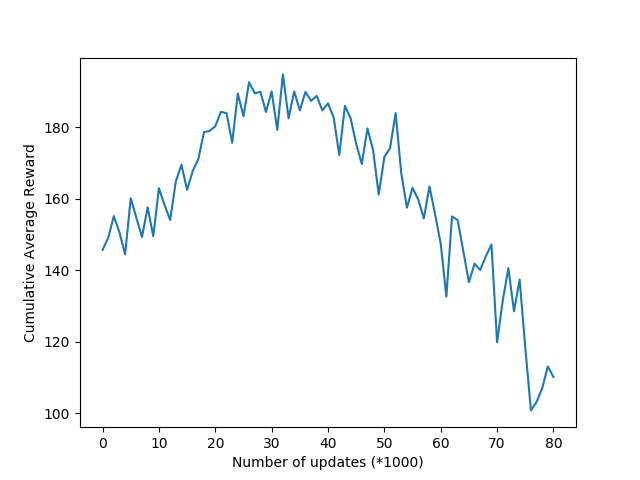
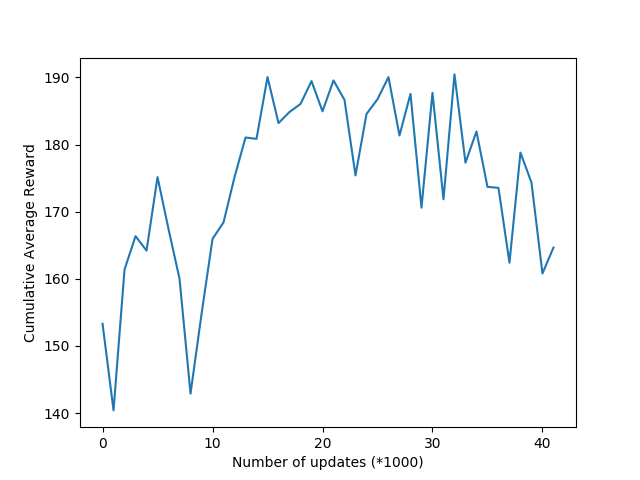
run new set of models

diff --git a/main.tex b/main.tex
@@ -322,7 +322,7 @@ At convergence, $Q_w^{t+1}(s, a)$ should be equal to $Q_w^{t}(s, a)$ which impli
 
 \subsection{Linear Q-Network without Experience Replay}
 \subsection*{CartPole-v0}
-\paragraph{Experiment Setting} There were only four weights in the network one corresponding to each variable in the state and a bias. To learn these weights, we used Adam Optimizer with initial learning rate 0.0001 to optimize the loss. During training, we use an epsilon greedy policy and decay the value of $\epsilon$ from 0.9 to 0.05 linearly over 1 million weight updates. The model was trained for 500 episodes. Figure \ref{fig:01} shows the performance of the model after different number of weight updates to model during training.
+\paragraph{Experiment Setting} There were only four weights in the network one corresponding to each variable in the state and a bias. To learn these weights, we used Adam Optimizer with initial learning rate 0.0001 to optimize the loss. During training, we use an epsilon greedy policy and decay the value of $\epsilon$ from 0.5 to 0.05 linearly over 1 million weight updates. The model was trained for 500 episodes. Figure \ref{fig:01} shows the performance of the model after different number of weight updates to model during training.
 \begin{figure}[h]
   \centering
   \vspace{-5mm}
@@ -330,7 +330,7 @@ At convergence, $Q_w^{t+1}(s, a)$ should be equal to $Q_w^{t}(s, a)$ which impli
   \caption{Performance of Linear Q-Network on CartPole}
   \label{fig:01}
 \end{figure}
-\paragraph{Observations} We found that the linear network is not able to solve CartPole environment with confidence. It is heavily dependent on initialization and with a bad initialization gets easily stuck in a local optima. Even when initialization is good, it is unable to give a consistent average reward of 200 and the performance oscillates a lot. Additionally, the model also unlearns the policy and the reward goes below 100 after training for some more time. We hypothesize that this might be due to the physics of the environment. The Q function with respect to velocity is symmetric and it is not possible for a linear model to trace a symmetric function. The rendering of the model learnt shows that even when reward is high, the pole is very unstable and the cart keeps moving back and forth a lot.
+\paragraph{Observations} We found that the linear network is not able to solve CartPole environment with confidence. It is heavily dependent on initialization and with a bad initialization gets easily stuck in a local optima. Even when initialization is good, it is unable to give a consistent average reward of 200 and the performance oscillates a lot. Additionally, the model also unlearns the policy and the reward goes below 100 after training for some more time. We hypothesize that this might be due to the physics of the environment. The Q function with respect to velocity is symmetric and it is not possible for a linear model to trace a symmetric function. The rendering of the model learned shows that even when reward is high, the pole is very unstable and the cart keeps moving to one direction.
 
 
 \pagebreak[4]
@@ -341,7 +341,7 @@ At convergence, $Q_w^{t+1}(s, a)$ should be equal to $Q_w^{t}(s, a)$ which impli
 \subsection{Linear Q-Network with Experience Replay}
 \subsection*{CartPole-v0}
 
-\paragraph{Experiment Setting} Similar to the setting without experience replay, we used Adam Optimizer with initial learning rate 0.0001. Again, we use an epsilon greedy policy and decay the value of $\epsilon$ from 0.9 to 0.05 linearly over 1 million weight updates. We use a batch size of 32 for experience sampling and train the model for 500 episodes. Figure \ref{fig:02} shows the performance of the model after different number of weight updates to model during training.
+\paragraph{Experiment Setting} Similar to the setting without experience replay, we used Adam Optimizer with initial learning rate 0.0001. Again, we use an epsilon greedy policy and decay the value of $\epsilon$ from 0.5 to 0.05 linearly over 1 million weight updates. We use a batch size of 32 for experience sampling and train the model for 500 episodes. Figure \ref{fig:02} shows the performance of the model after different number of weight updates to model during training.
 \begin{figure}[h]
   \centering
   \vspace{-5mm}
@@ -349,7 +349,7 @@ At convergence, $Q_w^{t+1}(s, a)$ should be equal to $Q_w^{t}(s, a)$ which impli
   \caption{Performance of Linear Q-Network on CartPole with Experience Sampling}
   \label{fig:02}
 \end{figure}
-\paragraph{Observations} Experience replay does help the model and the model performs better than that without replay. The number of episodes required for training is reduced because of replay. It is now less dependent on initialization and given sufficient training time is able to learn even with a bad initialization. However, this model also unlearns the policy and the reward diminishes after training for some more time. To avoid this from happening, we use an early stopping criteria where we stop training if we get a average reward of more than 195 for 5 continuous evaluations. The rendering of the learned policy shows that the pole is still oscillating a lot hinting that although the reward is 200, the policy learned is still not what it ideally should be.
+\paragraph{Observations} Experience replay does help the model and the model performs better than that without replay in a sense that the learned policy is able to reach a reward of 200. The number of episodes required for training is also reduced because of replay. However the model is still dependent on initialization and is able to reach only upto 100 reward for bad initializations. This model also unlearns the policy and the reward diminishes after training for some more time. To avoid this from happening, we use an early stopping criteria where we stop training if we get a average reward of more than 195 for 5 continuous evaluations. The rendering of the learned policy shows that the cart moves back and forth rapidly and pole is still oscillating a lot hinting that although the reward is 200, the policy learned is still not what it ideally should be.
 
 \pagebreak[4]
 \subsection*{MountainCar-v0}
@@ -357,7 +357,7 @@ At convergence, $Q_w^{t+1}(s, a)$ should be equal to $Q_w^{t}(s, a)$ which impli
 \pagebreak[4]
 \subsection{Deep Q-Network}
 \subsection*{CartPole-v0}
-\paragraph{Setting} Since, we find out that linear network in not enough to convincingly solve the CartPole environment due to the non-linearity in the physics of the environment, we try a Multi-layer perceptron with 2 hidden layers to solve the problem. We have 16 units in both layers and we use ReLU as activation function for non-linearity. We use adam optimizer with initial learning rate 0.0005. Again, we use an epsilon greedy policy and decay the value of $\epsilon$ from 0.9 to 0.05 linearly over 1 million weight updates. We use a batch size of 32 for experience replay. Figure \ref{fig:03} shows the performance of the model after different number of weight updates to model during training.
+\paragraph{Setting} Since, we find out that linear network in not enough to convincingly solve the CartPole environment due to the non-linearity in the physics of the environment, we try a Multi-layer perceptron with 2 hidden layers to solve the problem. We have 16 units in both layers and we use ReLU as activation function for non-linearity. We use adam optimizer with initial learning rate 0.001. Again, we use an epsilon greedy policy and decay the value of $\epsilon$ from 0.5 to 0.05 linearly over 1 million weight updates. We use a batch size of 32 for experience replay. Figure \ref{fig:03} shows the performance of the model after different number of weight updates to model during training.
 \begin{figure}[h]
   \centering
   \vspace{-5mm}
@@ -365,9 +365,9 @@ At convergence, $Q_w^{t+1}(s, a)$ should be equal to $Q_w^{t}(s, a)$ which impli
   \caption{Performance of Linear Q-Network on CartPole with Experience Sampling}
   \label{fig:03}
 \end{figure}
-\paragraph{Observations} We find that Multi-layer Perceptron is able to fully solve the CartPole environment and able to obtain an average reward of 200 consistently. The average reward obtained is also stable for a long time and does not unlearn quickly as the linear ones do. Learning however takes more time as the number of parameters are more and as a reason, a higher learning rate (0.0005) was used. Again, we use a stopping criteria to prevent the model from overfitting because the risk of overfitting is high due to higher number of parameters as compared to linear model. We stop training when we get a reward of 195 or more for 5 continuous evaluations. Finally, by examining the recording of the learned policy, we find that it is better than linear in the sense that pole does not oscillate and almost maintains its position. However, a caveat in the policy learned is that the cart tends to move in one direction either left or right in order to balance the pole. So while the problem of oscillating pole is solved by MLP, the problem of cart moving rapidly to one direction still remains. 
+\paragraph{Observations} We find that Multi-layer Perceptron is able to fully solve the CartPole environment and able to obtain an average reward of 200 consistently irrespective of initialization. The average reward obtained is also stable for a long time and does not unlearn quickly as the linear ones do. Learning however takes more time as the number of parameters are more and as a reason, a higher learning rate (0.001) was used. Again, we use a stopping criteria to prevent the model from overfitting because the risk of overfitting is high due to higher number of parameters as compared to linear model. We stop training when we get a reward of 195 or more for 5 continuous evaluations. Finally, by examining the recording of the learned policy, we find that it is better than linear in the sense that pole does not oscillate and almost maintains its position. However, a caveat in the policy learned is that the cart tends to move in one direction either left or right in order to balance the pole.
 
-\paragraph{Without Experience Replay} Additionally, we learn an MLP Q Network without experience replay (learning rate = 0.001 and rest of the hyperparameters are same) and find that MLP is able to solve the environment without experience replay and in fact does better in terms of reward stability as compared to linear with experience replay and does not unlearn as fast as linear does. As compared to MLP with experience replay, it take more episodes to converge, The rewards are less stable and its policy is slightly inferior in sense that the pole oscillates a bit. Figure \ref{fig:04} shows the performance of the model after different number of weight updates to model during training.
+\paragraph{Without Experience Replay} Additionally, we learn an MLP Q Network without experience replay and find that MLP is able to solve the environment without experience replay and in fact does better in terms of reward stability as compared to linear with experience replay and does not unlearn as fast as linear does. As compared to MLP with experience replay, it take more episodes to converge, The rewards are less stable and its policy is slightly inferior in sense that the pole oscillates a bit. Figure \ref{fig:04} shows the performance of the model after different number of weight updates to model during training.
 
 \begin{figure}[h]
   \centering
@@ -383,7 +383,7 @@ At convergence, $Q_w^{t+1}(s, a)$ should be equal to $Q_w^{t}(s, a)$ which impli
 \pagebreak[4]
 \subsection{Duelling Deep Q-Network}
 \subsection*{CartPole-v0}
-\paragraph{Setting} For the duelling dqn, we use a two layer MLP woith 16 units each as the shared architecture and then use tow MLPs of 1 layer with 16 units to compute advantage and value function. Similar to MLP, we use Adam Optimizer with initial learning rate of 0.0005 and ggain, we use an epsilon greedy policy and decay the value of $\epsilon$ from 0.9 to 0.05 linearly over 1 million weight updates. We use a batch size of 32 for experience replay. Figure \ref{fig:05} shows the performance of the model after different number of weight updates to model during training.
+\paragraph{Setting} For the duelling dqn, we use a two layer MLP woith 16 units each as the shared architecture and then use tow MLPs of 1 layer with 16 units to compute advantage and value function. Similar to MLP, we use Adam Optimizer with initial learning rate of 0.001 and again, we use an epsilon greedy policy and decay the value of $\epsilon$ from 0.5 to 0.05 linearly over 1 million weight updates. We use a batch size of 32 for experience replay. Figure \ref{fig:05} shows the performance of the model after different number of weight updates to model during training.
 \begin{figure}[h]
   \centering
   \vspace{-5mm}
@@ -391,7 +391,7 @@ At convergence, $Q_w^{t+1}(s, a)$ should be equal to $Q_w^{t}(s, a)$ which impli
   \caption{Performance of Linear Q-Network on CartPole with Experience Sampling}
   \label{fig:05}
 \end{figure}
-\paragraph{Observations} We find that duelling dqn takes lesser number of episodes to learn and is as good as dqn in terms of reward stability. One interesting thing to note was that number of updates was higher than dqn even though episodes were less. Examining the plot, we find out that duelling dqn starts to learn very quickly and the reward go up to 160 just after few updates. Another interesting observation was the recording of the policy learned by duelling dqn. It was most stable of all the policies learned so far. The car position was also stable and so was the pole's angle. There were very small movements and the actions perfectly balanced the pole. 
+\paragraph{Observations} We find that duelling dqn takes lesser number of episodes to learn and is as good as dqn in terms of reward stability. One interesting thing to note was that number of updates was higher than dqn even though episodes were less. Examining the plot, we find out that duelling dqn starts to learn very quickly and the reward go up to 193 just after first 5000 weight updates. Another interesting observation was the recording of the policy learned by duelling dqn. It was most stable of all the policies learned so far. The car position was also stable and so was the pole's angle. There were very small movements and the actions perfectly balanced the pole. 
 
 \pagebreak[4]
 \subsection*{MountainCar-v0}
@@ -409,11 +409,11 @@ At convergence, $Q_w^{t+1}(s, a)$ should be equal to $Q_w^{t}(s, a)$ which impli
 \begin{tabular}{cccccc}
 \hline
 Env           & Q-Net  & Replay      & Algo        & Reward    & Train Episodes \\ \hline
-CartPole      & Linear & No          & DQN         & 190 $\pm$ 14.37 & 190      \\
-CartPole      & Linear & Yes         & DQN         & 200 $\pm$ 0.00  & 72       \\
-CartPole      & MLP    & No          & DQN         & 200 $\pm$ 0.00  & 3580     \\
-CartPole      & MLP    & Yes         & DQN         & 200 $\pm$ 0.00  & 530      \\
-CartPole      & MLP    & Yes         & DuellingDQN & 200 $\pm$ 0.00  & 390      \\
+CartPole      & Linear & No          & DQN         & 183.87 $\pm$ 22.37 & 300      \\
+CartPole      & Linear & Yes         & DQN         & 200 $\pm$ 0.00  & 215       \\
+CartPole      & MLP    & No          & DQN         & 200 $\pm$ 0.00  & 1680     \\
+CartPole      & MLP    & Yes         & DQN         & 200 $\pm$ 0.00  & 420      \\
+CartPole      & MLP    & Yes         & DuellingDQN & 200 $\pm$ 0.00  & 310      \\
 MountainCar   & Linear & No          & DQN         &           &          \\
 MountainCar   & Linear & Yes         & DQN         &           &          \\
 MountainCar   & MLP    & No          & DQN         &           &          \\
